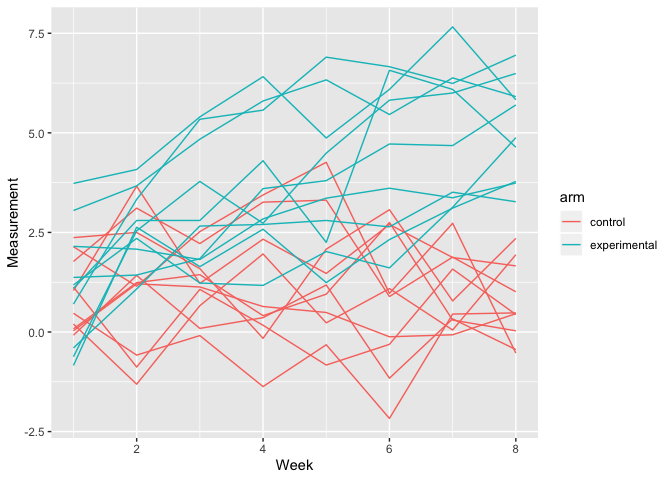
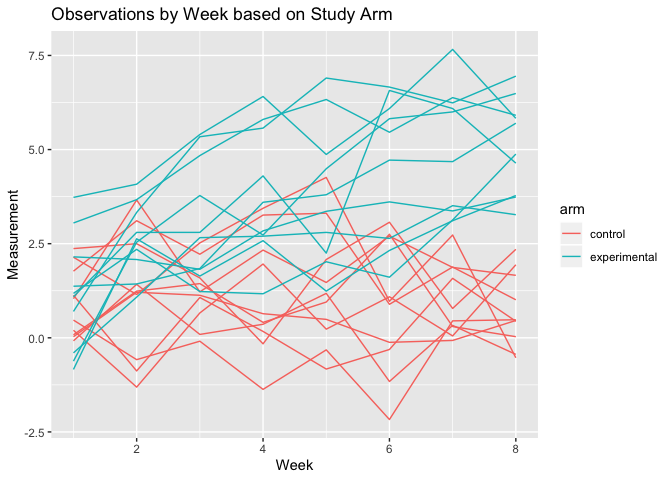
plots for problem 3

diff --git a/p8105_hw5_ps3070.md b/p8105_hw5_ps3070.md
@@ -5,14 +5,14 @@ p8105\_hw5\_ps3070
 library(tidyverse)
 ```
 
-    ## ── Attaching packages ─────────────────────────────────────────── tidyverse 1.2.1 ──
+    ## ── Attaching packages ──────────── tidyverse 1.2.1 ──
 
     ## ✔ ggplot2 3.2.1     ✔ purrr   0.3.2
     ## ✔ tibble  2.1.3     ✔ dplyr   0.8.3
     ## ✔ tidyr   1.0.0     ✔ stringr 1.4.0
     ## ✔ readr   1.3.1     ✔ forcats 0.4.0
 
-    ## ── Conflicts ────────────────────────────────────────────── tidyverse_conflicts() ──
+    ## ── Conflicts ─────────────── tidyverse_conflicts() ──
     ## ✖ dplyr::filter() masks stats::filter()
     ## ✖ dplyr::lag()    masks stats::lag()
 
@@ -75,18 +75,137 @@ output #to check that it worked
 
 ``` r
 head(output) %>% 
-  kable()
+  kable(format = "html", caption = "Iris Dataset without Missing")
 ```
 
-|  Sepal.Length|  Sepal.Width|  Petal.Length|  Petal.Width| Species   |
-|-------------:|------------:|-------------:|------------:|:----------|
-|           5.1|          3.5|      1.400000|     0.200000| setosa    |
-|           4.9|          3.0|      1.400000|     0.200000| setosa    |
-|           4.7|          3.2|      3.836923|     0.200000| virginica |
-|           4.6|          3.1|      1.500000|     0.200000| virginica |
-|           5.0|          3.6|      1.400000|     1.243846| setosa    |
-|           5.4|          3.9|      1.700000|     1.243846| setosa    |
-
+<table>
+<caption>
+Iris Dataset without Missing
+</caption>
+<thead>
+<tr>
+<th style="text-align:right;">
+Sepal.Length
+</th>
+<th style="text-align:right;">
+Sepal.Width
+</th>
+<th style="text-align:right;">
+Petal.Length
+</th>
+<th style="text-align:right;">
+Petal.Width
+</th>
+<th style="text-align:left;">
+Species
+</th>
+</tr>
+</thead>
+<tbody>
+<tr>
+<td style="text-align:right;">
+5.1
+</td>
+<td style="text-align:right;">
+3.5
+</td>
+<td style="text-align:right;">
+1.400000
+</td>
+<td style="text-align:right;">
+0.200000
+</td>
+<td style="text-align:left;">
+setosa
+</td>
+</tr>
+<tr>
+<td style="text-align:right;">
+4.9
+</td>
+<td style="text-align:right;">
+3.0
+</td>
+<td style="text-align:right;">
+1.400000
+</td>
+<td style="text-align:right;">
+0.200000
+</td>
+<td style="text-align:left;">
+setosa
+</td>
+</tr>
+<tr>
+<td style="text-align:right;">
+4.7
+</td>
+<td style="text-align:right;">
+3.2
+</td>
+<td style="text-align:right;">
+3.836923
+</td>
+<td style="text-align:right;">
+0.200000
+</td>
+<td style="text-align:left;">
+virginica
+</td>
+</tr>
+<tr>
+<td style="text-align:right;">
+4.6
+</td>
+<td style="text-align:right;">
+3.1
+</td>
+<td style="text-align:right;">
+1.500000
+</td>
+<td style="text-align:right;">
+0.200000
+</td>
+<td style="text-align:left;">
+virginica
+</td>
+</tr>
+<tr>
+<td style="text-align:right;">
+5.0
+</td>
+<td style="text-align:right;">
+3.6
+</td>
+<td style="text-align:right;">
+1.400000
+</td>
+<td style="text-align:right;">
+1.243846
+</td>
+<td style="text-align:left;">
+setosa
+</td>
+</tr>
+<tr>
+<td style="text-align:right;">
+5.4
+</td>
+<td style="text-align:right;">
+3.9
+</td>
+<td style="text-align:right;">
+1.700000
+</td>
+<td style="text-align:right;">
+1.243846
+</td>
+<td style="text-align:left;">
+setosa
+</td>
+</tr>
+</tbody>
+</table>
 Problem 2
 ---------
 
@@ -152,7 +271,7 @@ tidy_df = names %>%
   mutate(subject = str_replace(file_names, ".csv", ""),
          arm = str_replace(file_names, "_.*", ""),
          arm = recode(arm, "con" = "control", "exp" = "experimental")) %>% 
-  gather(key = week, value = meas, week_1:week_8) %>%
+  gather(key = week, value = measurement, week_1:week_8) %>%
   separate(week, into = c("extra", "week"), sep = "_") %>% 
   mutate(week = as.numeric(week)) %>% 
   select(-extra, -file_names)
@@ -177,7 +296,7 @@ arm
 week
 </th>
 <th style="text-align:right;">
-meas
+measurement
 </th>
 </tr>
 </thead>
@@ -272,10 +391,11 @@ Make a spaghetti plot showing observations on each subject over time, and commen
 
 ``` r
 files_plot = tidy_df %>% 
-  ggplot(aes(x = week, y = meas, color = arm, group = subject)) +
+  ggplot(aes(x = week, y = measurement, color = arm, group = subject)) +
   geom_line() +
   labs(x = "Week",
-       y = "Measurement")
+       y = "Measurement",
+       title = "Observations by Week based on Study Arm")
 
 files_plot
 ```
@@ -302,10 +422,6 @@ Then, I am generating 10,000 datasets from the following model:
 
 with *ϵ*<sub>*i*</sub> ∼ *N*\[0, *σ*<sup>2</sup>\].
 
-With an alpha of 0.05 (5% significance level), I am testing:
-*H* : *β*<sub>1</sub> = 0
- *Hint: to obtain the estimate and p-value, use `broom::tidy` to clean the output of `lm`.*
-
 ``` r
 sim = function(n = 30, beta0 = 2, beta1 = 0) {
   
@@ -315,6 +431,165 @@ sim = function(n = 30, beta0 = 2, beta1 = 0) {
   )
   
   ls_fit = lm(y ~ x_i1, data = sim_data) %>% 
-    broom::tidy()
+    broom::tidy() %>% 
+    filter(term == "x_i1") %>%
+    select("estimate", "p.value")
 }
 ```
+
+Running simulation to generate 10,000 $\\hat{\\beta}\_1$ values and p-values using an alpha of 0.05 (5% significance level), and testing:
+*H* : *β*<sub>1</sub> = 0
+
+``` r
+simulation =
+  rerun(10000, sim(n, beta0, beta1)) %>% 
+  bind_rows()
+```
+
+Next, I repeated this simulation for *β*<sub>1</sub> = {1, 2, 3, 4, 5, 6}. The table generated in the code chunk below returns estimates and p-values, simulated 10,000 times for each beta.
+
+``` r
+beta1_sim = 
+  tibble(betas = c(1:6)) %>% #created list
+  mutate(
+    sim_output = map(.x = betas, ~ rerun(10000, sim(n, beta0, beta1 = .x))), #used .x for betas list and mapped the simulation in prev code chunk
+    estimates = map(sim_output, bind_rows)) %>%
+  select(-sim_output) %>% 
+  unnest(estimates)
+
+head(beta1_sim) %>% 
+  kable(format = "html", caption = "Beta and P-value Simulation")
+```
+
+<table>
+<caption>
+Beta and P-value Simulation
+</caption>
+<thead>
+<tr>
+<th style="text-align:right;">
+betas
+</th>
+<th style="text-align:right;">
+estimate
+</th>
+<th style="text-align:right;">
+p.value
+</th>
+</tr>
+</thead>
+<tbody>
+<tr>
+<td style="text-align:right;">
+1
+</td>
+<td style="text-align:right;">
+5.0860767
+</td>
+<td style="text-align:right;">
+0.5291207
+</td>
+</tr>
+<tr>
+<td style="text-align:right;">
+1
+</td>
+<td style="text-align:right;">
+8.2026674
+</td>
+<td style="text-align:right;">
+0.4069015
+</td>
+</tr>
+<tr>
+<td style="text-align:right;">
+1
+</td>
+<td style="text-align:right;">
+-2.8781240
+</td>
+<td style="text-align:right;">
+0.7030092
+</td>
+</tr>
+<tr>
+<td style="text-align:right;">
+1
+</td>
+<td style="text-align:right;">
+-4.1228452
+</td>
+<td style="text-align:right;">
+0.4837984
+</td>
+</tr>
+<tr>
+<td style="text-align:right;">
+1
+</td>
+<td style="text-align:right;">
+0.5658008
+</td>
+<td style="text-align:right;">
+0.9517691
+</td>
+</tr>
+<tr>
+<td style="text-align:right;">
+1
+</td>
+<td style="text-align:right;">
+-3.9692938
+</td>
+<td style="text-align:right;">
+0.6655304
+</td>
+</tr>
+</tbody>
+</table>
+Below is a plot showing the proportion of times the null was rejected (power) on the y axis and the true value of *β*<sub>1</sub> on the x axis. As seen in this plot, as effect size increases, power increases.
+
+-   Describe the association between effect size and power
+
+``` r
+power_plot = beta1_sim %>% 
+  group_by(betas) %>% 
+  summarise(n = n(), #total count
+            p = sum(p.value < 0.05), #<0.05 rejects null
+            power = p/n) %>% #to show proportion of times null was rejected
+  ggplot(aes(x = betas, y = power)) +
+  geom_point() +
+  geom_line() +
+  labs(title = "Effect Size vs Power", 
+       x = "Effect Size", 
+       y = "Power") +
+  scale_x_continuous(breaks = c(1:6))
+```
+
+Plot to show the average estimate of $\\hat{\\beta}\_1$ on y axis and the true value of *β*<sub>1</sub> on the x-axis
+
+``` r
+overall_plot = beta1_sim %>% 
+  group_by(betas) %>% 
+  summarise(mean_beta1 = mean(estimate)) %>% 
+  ggplot(aes(x = betas, y = mean_beta1)) +
+  geom_point() +
+  geom_line()
+```
+
+Plot to show the average estimate of $\\hat{\\beta}\_1$ only where null was rejected (p &lt; 0.05) on the y-axis and the true value of *β*<sub>1</sub> on the x-axis
+
+``` r
+rej_plot = beta1_sim %>% 
+  filter(p.value < 0.05) %>% #filter where null is rejected
+  group_by(betas) %>% 
+  summarise(mean_rej_beta1 = mean(estimate)) %>% 
+  ggplot(aes(x = betas, y = mean_rej_beta1)) +
+  geom_point() +
+  geom_line()
+```
+
+Overlay:
+
+`{r} ggplot(overall_plot, aes(aes(x = betas, y = mean_beta1))) +   geom_point() +    geom_line() +   geom_line(data = rej_plot, aes(x = betas, y = mean_rej_beta1), colour = "red")`
+====================================================================================================================================================================================
